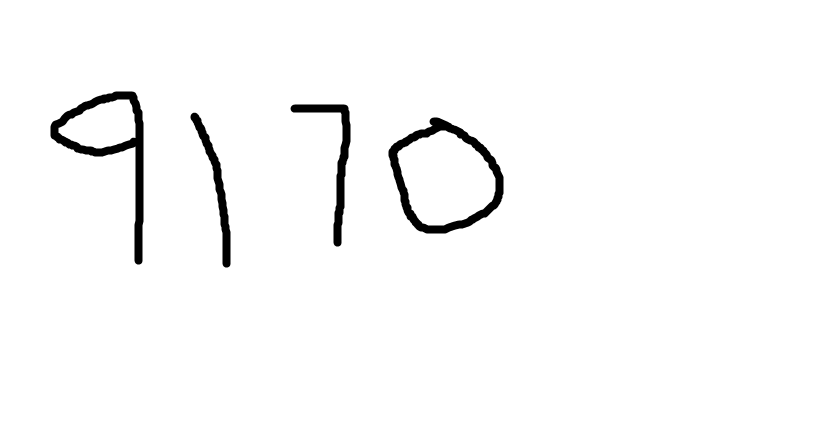
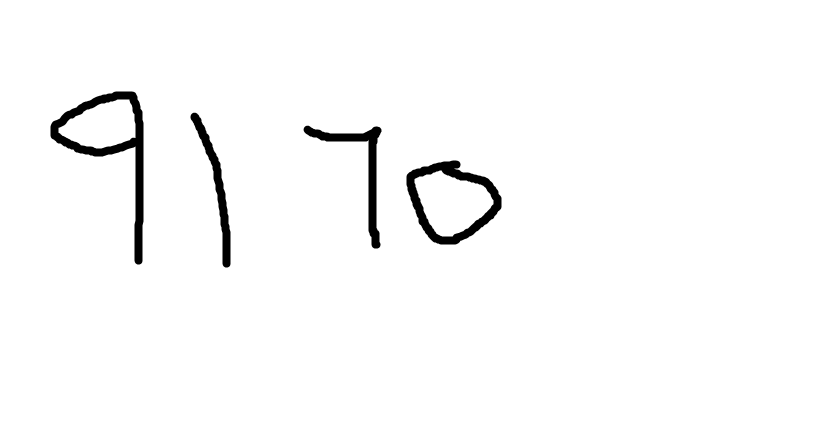
Just a litle more

Changed region(s): [[0.3425, 0.2353, 0.6228, 0.5588]]

diff --git a/UserTest.py b/UserTest.py
@@ -3,6 +3,12 @@ import cv2
 from numpy import argmax 
 from Narrator import Narrate
 
+
+def Arabic(Text):
+    Text=str(Text)
+    Trans = str.maketrans('0123456789', '٠١٢٣٤٥٦٧٨٩')
+    return Text.translate(Trans)
+
 def Start(BasePath,ModelPath):
     model = load_model(ModelPath)
 
@@ -38,9 +44,3 @@ def Start(BasePath,ModelPath):
     Output = int(Output)
     Narrate(Output)
     cv2.waitKey(0)
-
-
-def Arabic(Text):
-    Text=str(Text)
-    Trans = str.maketrans('0123456789', '٠١٢٣٤٥٦٧٨٩')
-    return Text.translate(Trans)

diff --git a/Narrator.py b/Narrator.py
@@ -1,6 +1,7 @@
 import os
 from pydub import AudioSegment
 from pydub.playback import play
+from pydub.effects import speedup
 
 # Path to your recorded files
 Audio = "./Recordings/"
@@ -56,4 +57,5 @@ def Narrate(i):
     Sound = AudioSegment.empty()
     for i in Divisions:
         Sound += Get(i)
+    Sound = speedup(Sound, playback_speed=1.3, chunk_size=140, crossfade=30)
     play(Sound)
